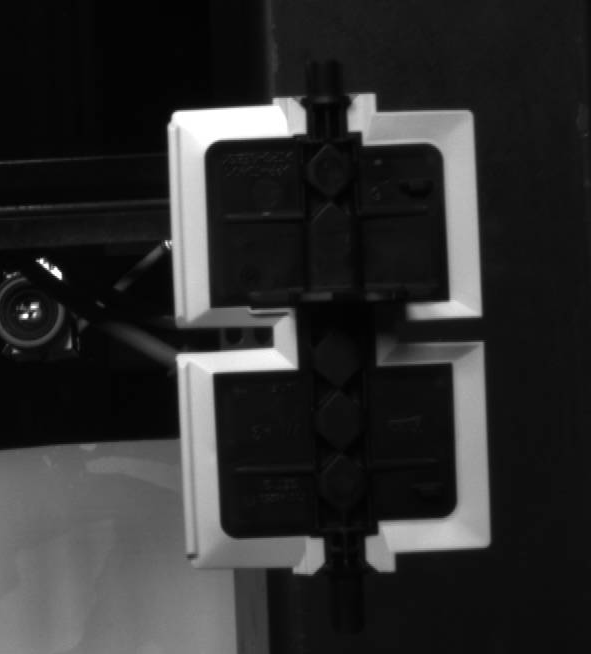
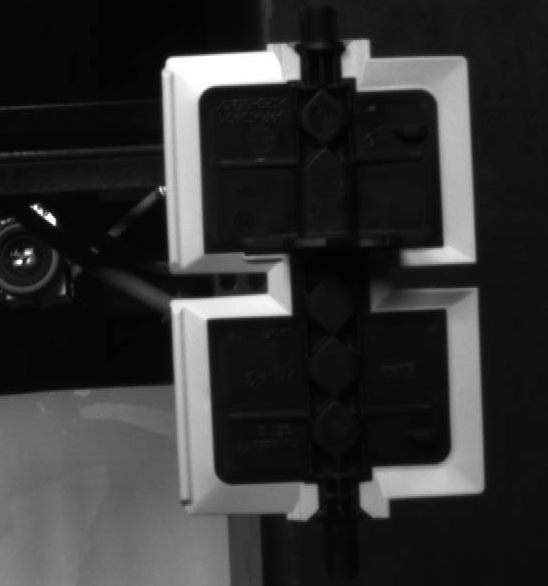
UI UX: Přechod na slider-based polohování ROI
Nahrazení number_input prvků komponentami st.slider pro lepší ergonomii na dotykových terminálech.

Zajištění plynulé vizuální odezvy oranžového ROI náhledu při interakci s posuvníky.

Optimalizace layoutu ovládacího panelu pro ovládání v rukavicích.

diff --git a/app.py b/app.py
@@ -148,56 +148,49 @@ with tab3:
                     st.write("📝 **Detail zóny**")
                     zn = st.text_input("Název / Označení", value=curr_roi[2] if curr_roi else f"Zóna {len(all_rois)+1}")
                     
-                    r1, r2 = st.columns(2)
-                    zx = r1.number_input("X", 0, W, curr_roi[3] if curr_roi else 100)
-                    zy = r2.number_input("Y", 0, H, curr_roi[4] if curr_roi else 100)
-                    zw = r1.number_input("Šířka", 10, W, curr_roi[5] if curr_roi else 150)
-                    zh = r2.number_input("Výška", 10, H, curr_roi[6] if curr_roi else 150)
+                    # VELKÉ POSUVNÍKY (Slidery) pro dotykové ovládání
+                    # Label (popisek) je nad sliderem, aby byl vidět i pod prstem
+                    zx = st.slider("Pozice X (vlevo ↔ vpravo)", 0, W, curr_roi[3] if curr_roi else 100, key="slider_x")
+                    zy = st.slider("Pozice Y (nahoru ↕ dolů)", 0, H, curr_roi[4] if curr_roi else 100, key="slider_y")
+                    
+                    # Šířka a výška mohou být ve dvou sloupcích, aby nezabíraly tolik místa na výšku
+                    s1, s2 = st.columns(2)
+                    zw = s1.slider("Šířka", 10, W, curr_roi[5] if curr_roi else 150, key="slider_w")
+                    zh = s2.slider("Výška", 10, H, curr_roi[6] if curr_roi else 150, key="slider_h")
                     
                     nok_list = [f"NOK {i}" for i in range(1, 9)]
                     selected_nok = st.selectbox("Přiřazení chyby", nok_list, 
                                                 index=(curr_roi[7]-1) if curr_roi else 0)
                     nok_val = int(selected_nok.split()[1])
 
-                    b1, b2 = st.columns(2)
-                    if b1.button("💾 ULOŽIT", key="save_roi_btn", type="primary", use_container_width=True):
+                    # Velké tlačítko přes celou šířku
+                    if st.button("💾 ULOŽIT KONFIGURACI ZÓNY", key="save_roi_btn", type="primary", use_container_width=True):
                         if st.session_state.editing_id:
                             database.update_roi(st.session_state.editing_id, zn, zx, zy, zw, zh, nok_val)
                         else:
                             database.save_roi(m_id, zn, zx, zy, zw, zh, nok_val)
                         st.session_state.editing_id = None
                         st.rerun()
-                    
-                    if st.session_state.editing_id:
-                        if b2.button("🚫 ZRUŠIT", key="cancel_roi_btn", use_container_width=True):
-                            st.session_state.editing_id = None
-                            st.rerun()
-
-                st.divider()
-                st.write("📋 **Seznam inspekcí**")
-                for r in all_rois:
-                    with st.expander(f"{r[2]} (NOK {r[7]})"):
-                        e1, e2 = st.columns(2)
-                        if e1.button("✏ Editovat", key=f"ed_roi_{r[0]}", use_container_width=True):
-                            st.session_state.editing_id = r[0]
-                            st.rerun()
-                        if e2.button("🗑 Smazat", key=f"del_roi_{r[0]}", use_container_width=True):
-                            database.delete_roi(r[0])
-                            st.rerun()
 
             with col_viz:
-                # Simulace kreslení (zde doplň svůj draw.rectangle kód)
+                # KRESLENÍ ROI PŘES PIL
                 from PIL import ImageDraw
                 draw = ImageDraw.Draw(img_roi)
-                # ... kreslení ROI ...
+                
+                # 1. Vykreslení už uložených zón (zeleně)
+                for r in all_rois:
+                    if st.session_state.editing_id != r[0]:
+                        draw.rectangle([r[3], r[4], r[3]+r[5], r[4]+r[6]], outline="#00FF00", width=3)
+                        draw.text((r[3], r[4]-15), r[2], fill="#00FF00")
 
+                # 2. Vykreslení AKTUÁLNĚ NASTAVOVANÉ zóny (oranžově - to co měníš čísly)
+                # Tohle nahrazuje chybějící posuvník - vidíš to hned!
+                draw.rectangle([zx, zy, zx+zw, zy+zh], outline="orange", width=5)
+                draw.text((zx, zy-25), "NÁHLED ZÓNY", fill="orange")
+
+                # Zobrazení výsledného obrázku
                 display_width = min(W, 700) 
-                st.image(
-                    img_roi, 
-                    width=display_width, 
-                    caption=f"Pracovní plocha: {m_name} ({W}x{H} px)"
-                )
-                # OSTRANĚN DUPLICITNÍ ŘÁDEK st.image(img_roi, use_container_width=True)
+                st.image(img_roi, width=display_width, caption=f"Pracovní plocha: {m_name}")
 
 # --- TAB 4: I/O ---
 with tab4:
